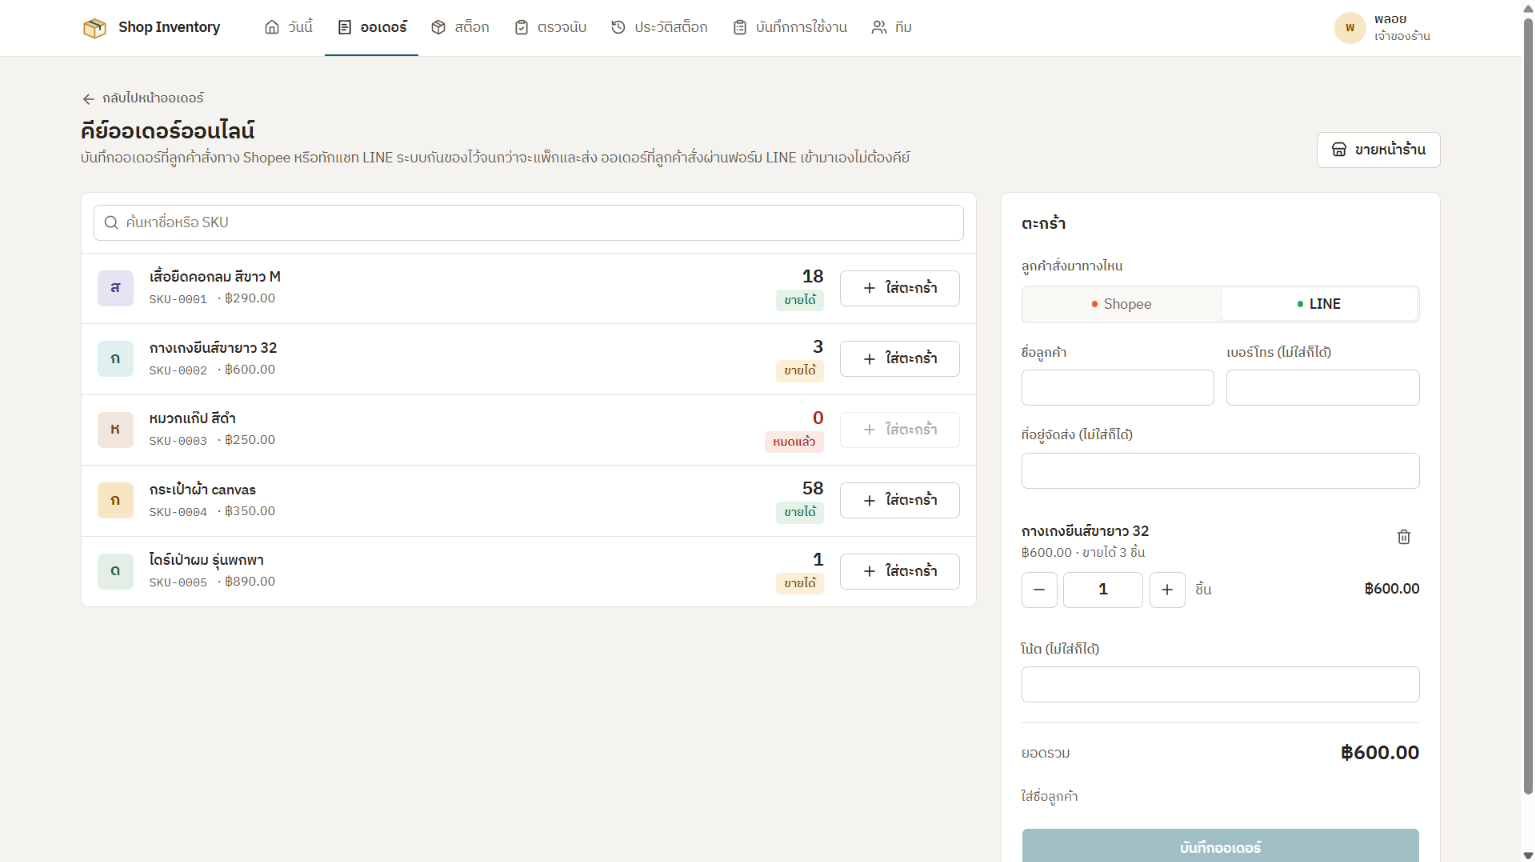
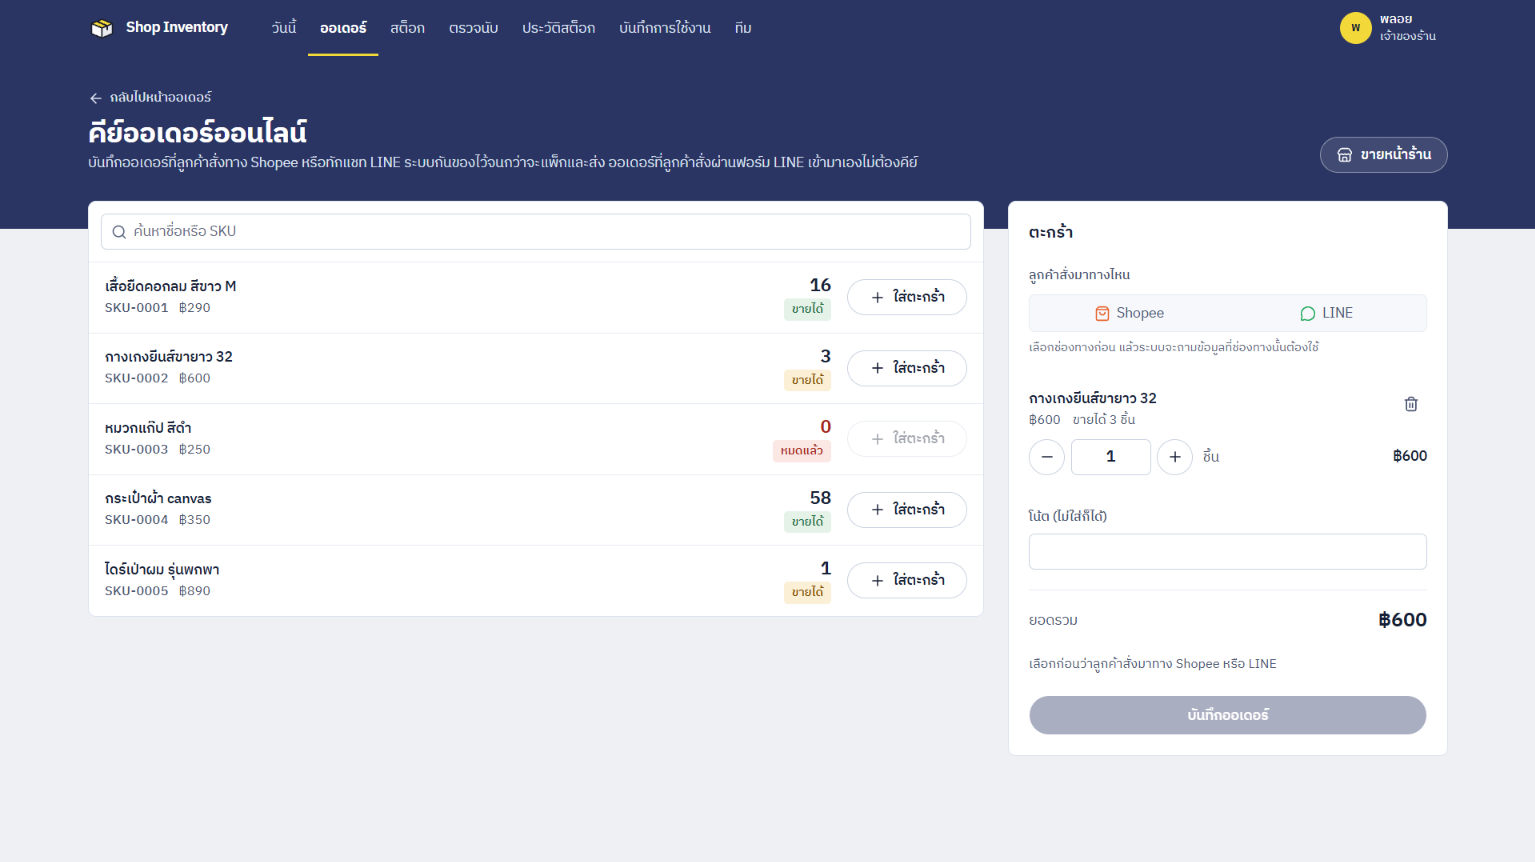
feat: refresh Turtle Shop screenshots for the new UI
Replace the Turtle Shop screenshots with captures of the redesigned
navy UI and remove the old cream-theme ones that no longer match.

- Web: today -> order entry -> stock -> stock ledger -> add product,
  with the today page as the card cover
- LINE: cart -> checkout -> order placed
- The phone number and address on the LINE checkout screenshot are
  pixelated

diff --git a/src/data/ProjectsData.tsx b/src/data/ProjectsData.tsx
@@ -49,16 +49,14 @@ export const projectData: Project[] = [
   github: "https://github.com/aumputthipong/shop-inventory-app",
   ref: false,
   demo: "https://turtle-shop.onrender.com",
-  image: "/projects/shop-inventory/stock.png",
+  image: "/projects/shop-inventory/today.png",
   year: 2026,
   images: [
-    "/projects/shop-inventory/stock.png",
     "/projects/shop-inventory/today.png",
     "/projects/shop-inventory/order-entry.png",
-    "/projects/shop-inventory/order-line.png",
-    "/projects/shop-inventory/receive.png",
+    "/projects/shop-inventory/stock.png",
     "/projects/shop-inventory/ledger.png",
-    "/projects/shop-inventory/audit-log.png",
+    "/projects/shop-inventory/add-product.png",
   ],
   haveImage: true,
   layout: "web",
@@ -67,7 +65,7 @@ export const projectData: Project[] = [
     images: [
       "/projects/shop-inventory/line-cart.png",
       "/projects/shop-inventory/line-checkout.png",
-      "/projects/shop-inventory/line-sold-out.png",
+      "/projects/shop-inventory/line-done.png",
     ],
   },
 },
